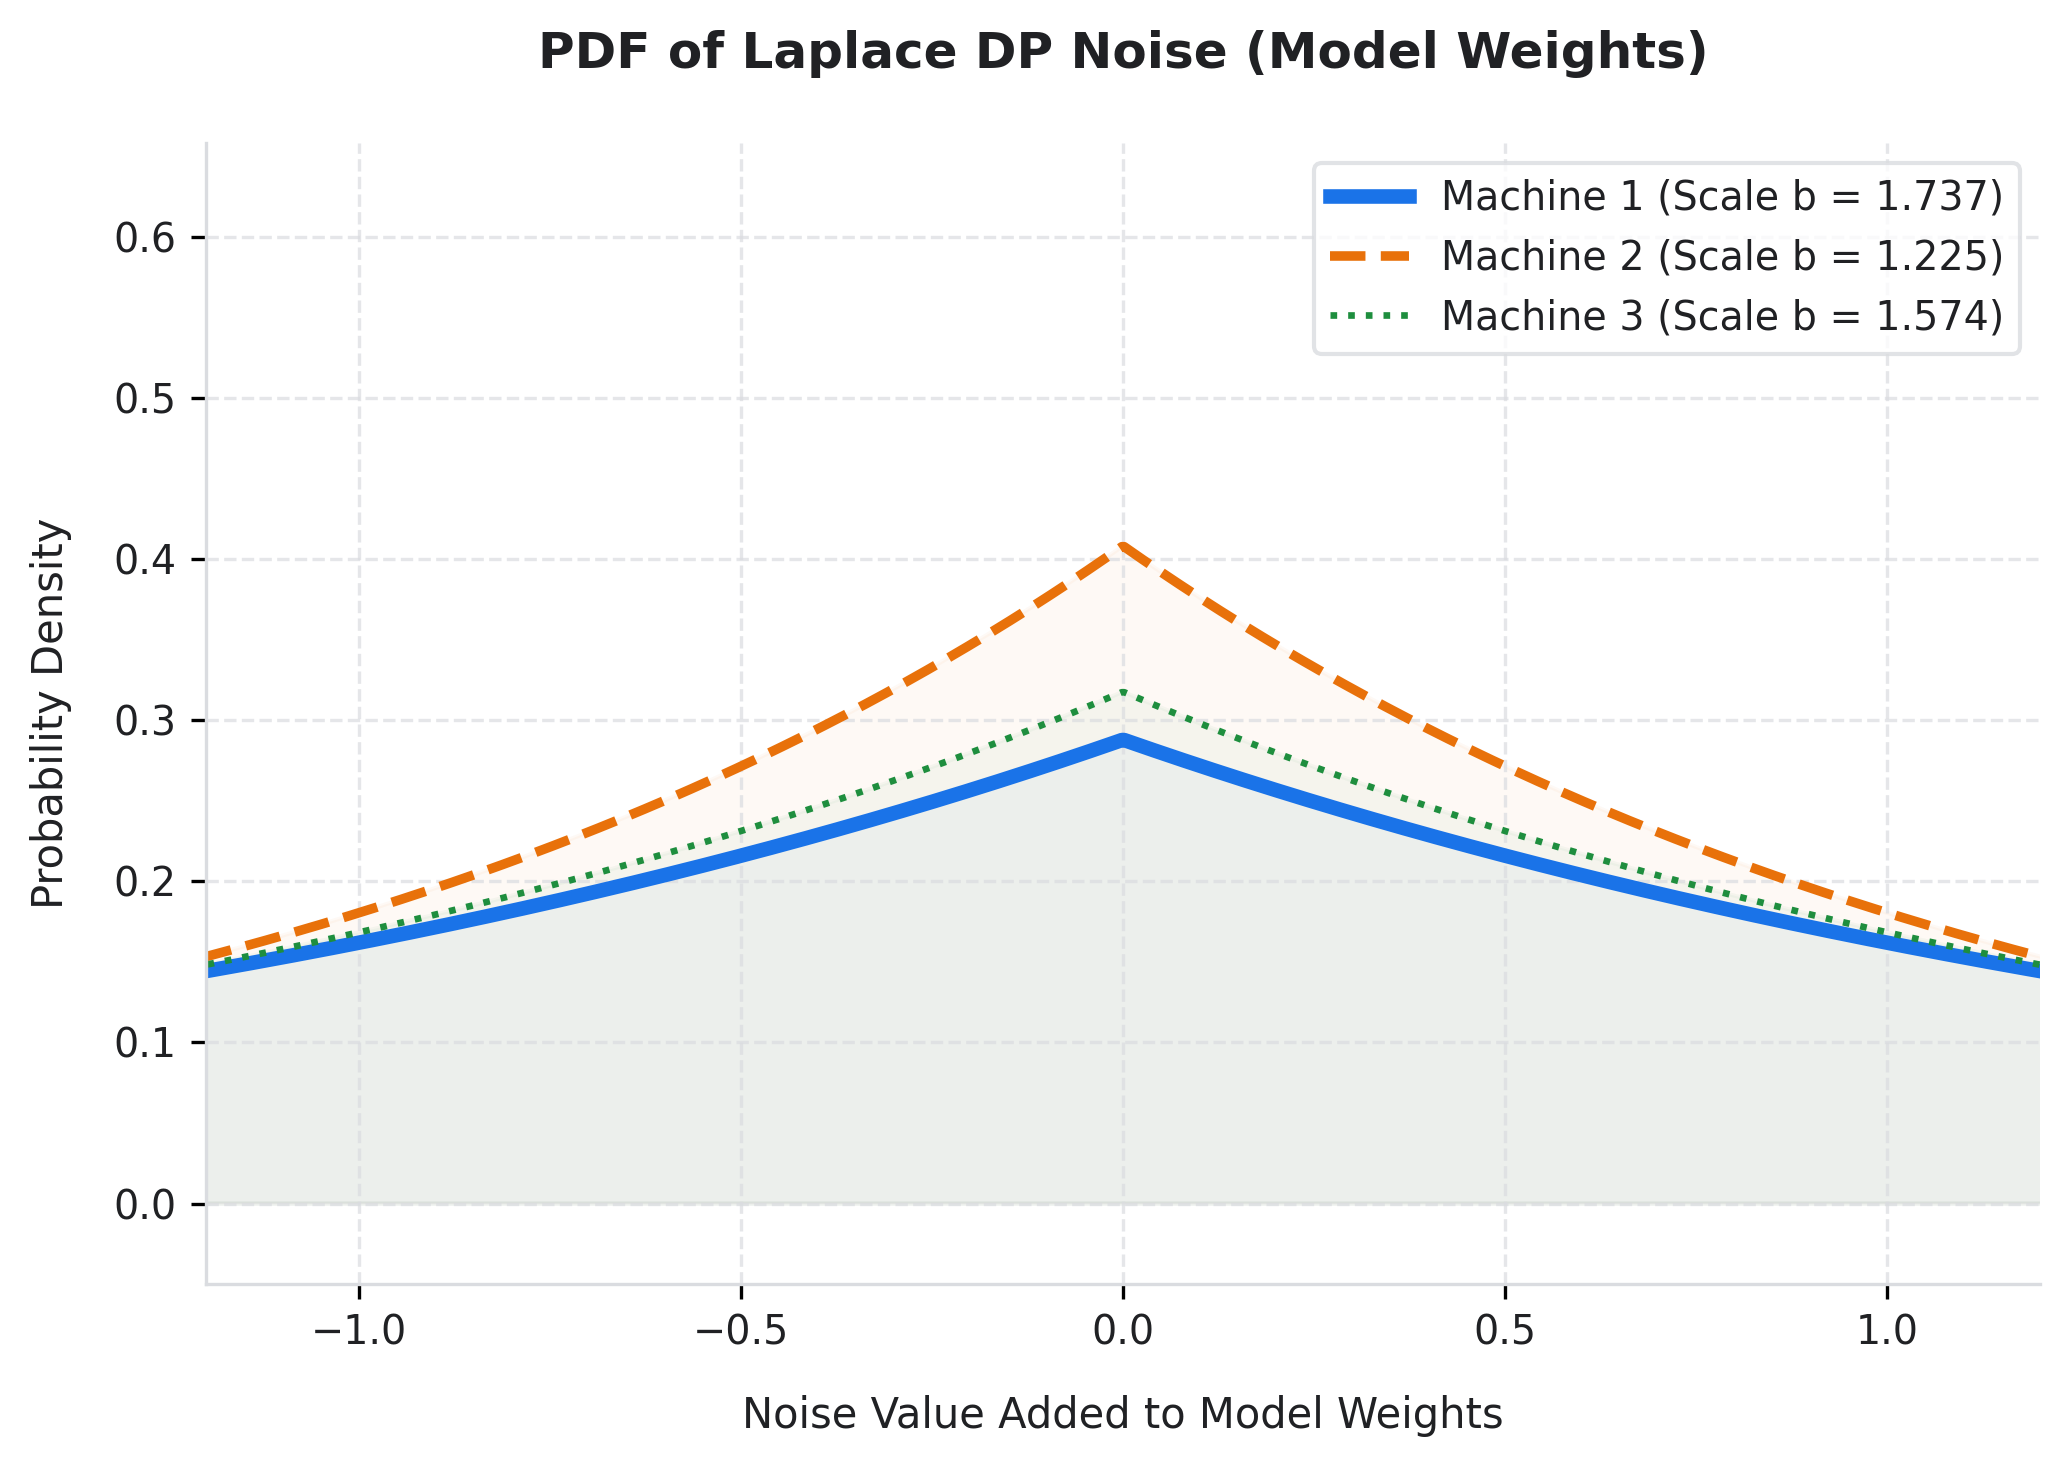
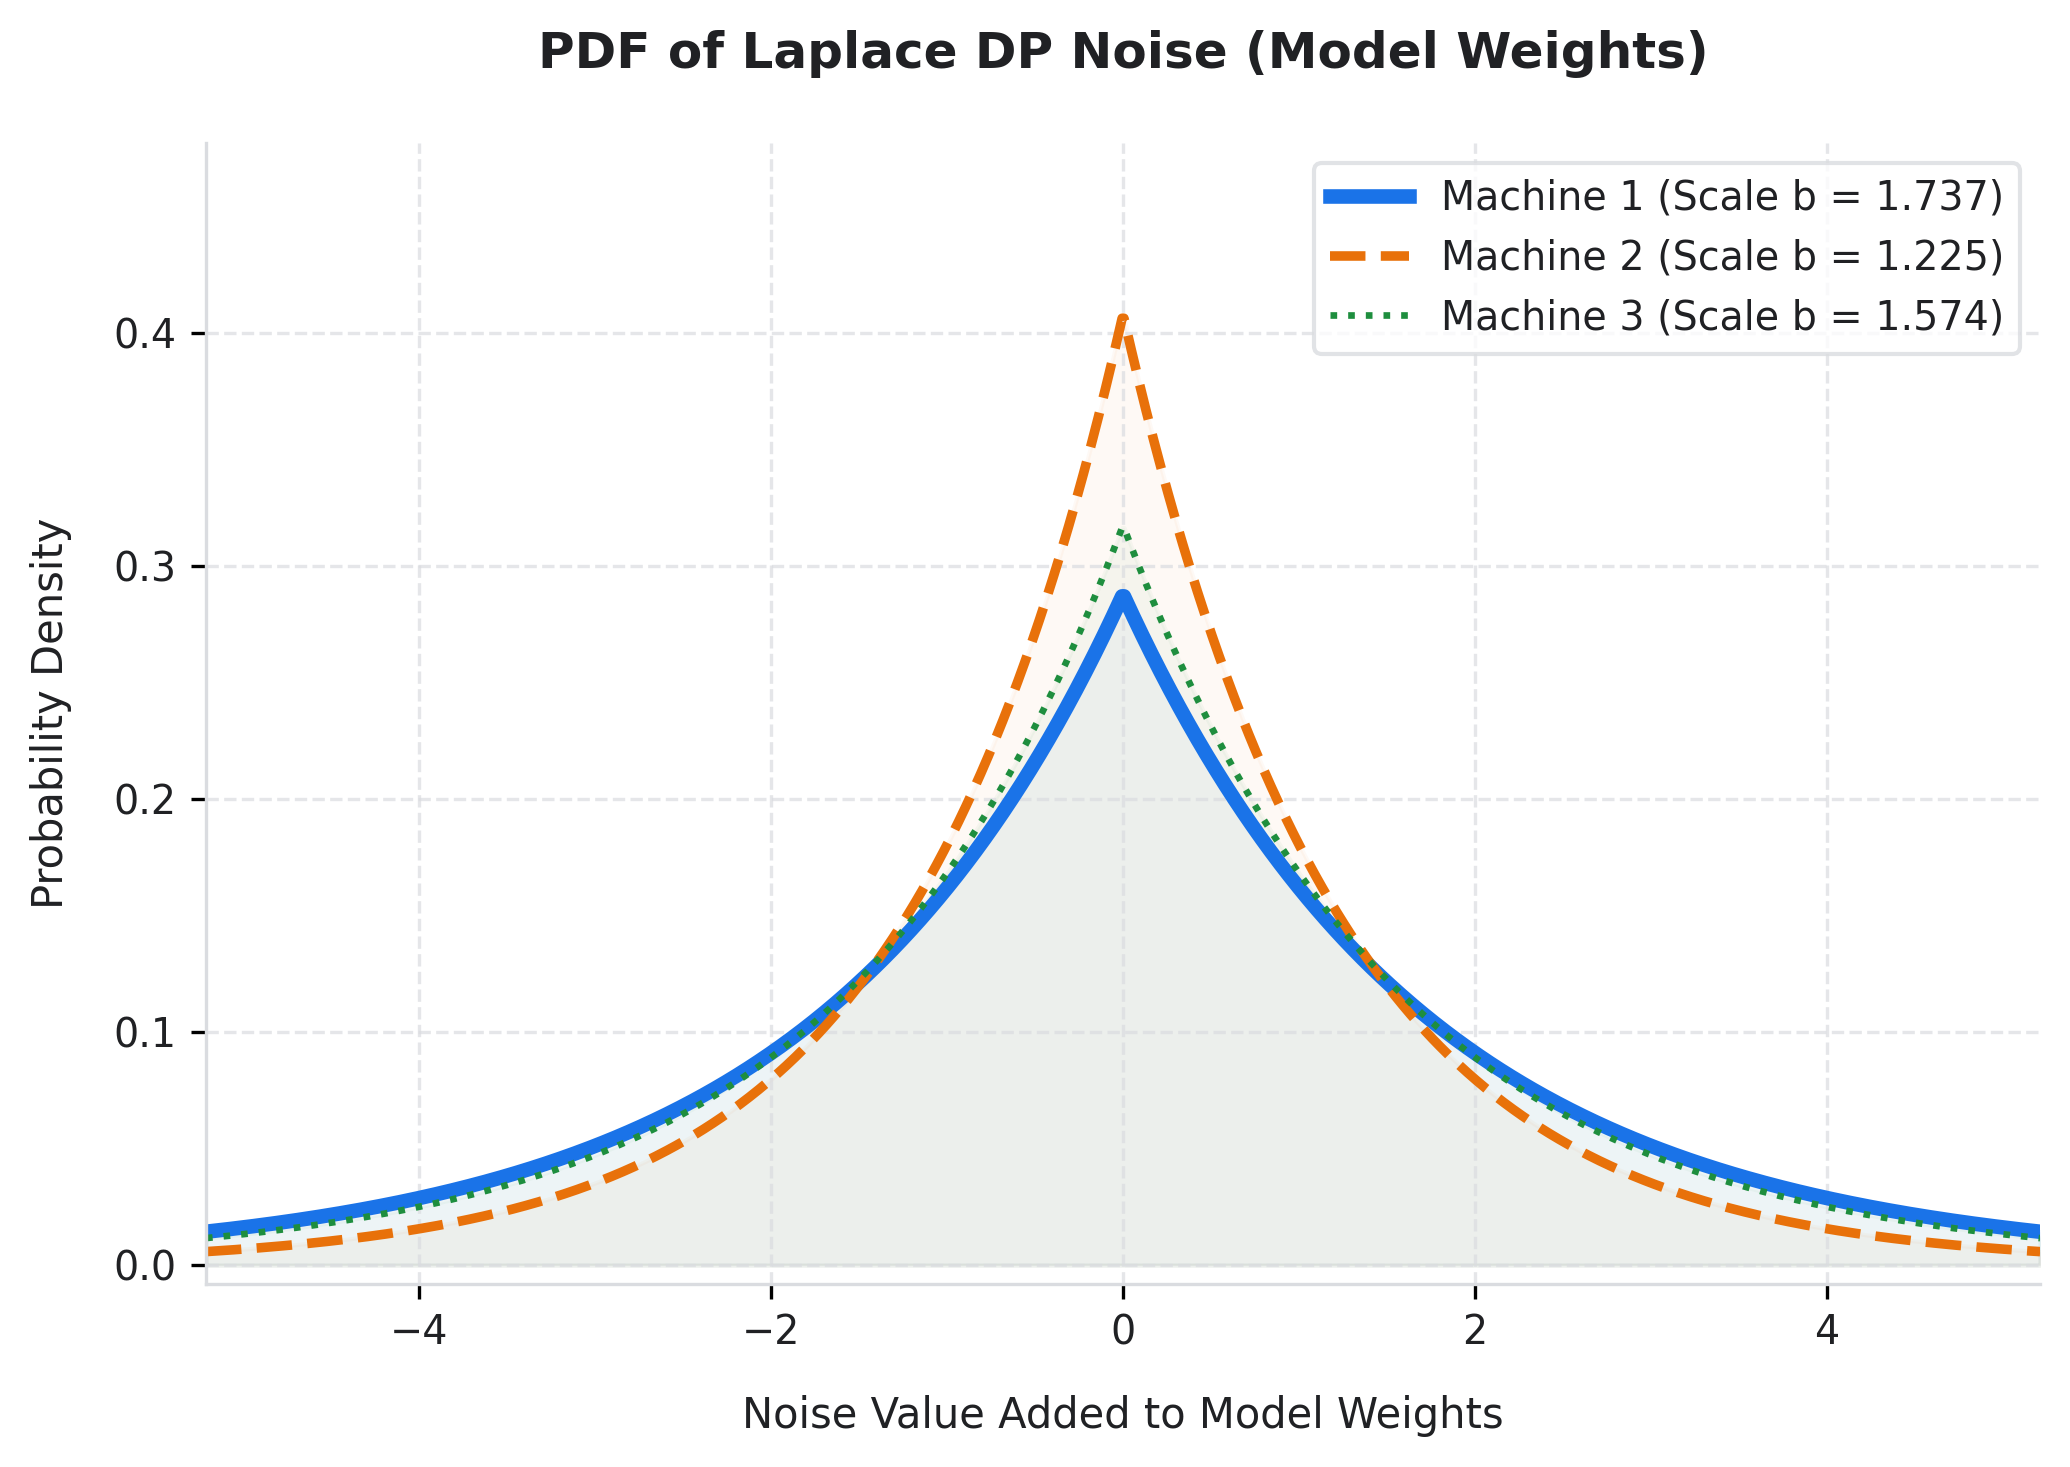
Dynamically scale axes in plot_dp_laplace.png for clear, un-cropped Laplace Noise PDF rendering

diff --git a/server.py b/server.py
@@ -395,7 +395,9 @@ if use_dp:
             # Use epsilon_per_round to plot the actual per-round noise scale
             scale = sensitivity / epsilon_per_round
             scales.append(scale)
-        x_range = np.linspace(-1.5, 1.5, 1000)
+        max_scale = max(scales)
+        x_limit = max(3.0 * max_scale, 0.5)
+        x_range = np.linspace(-x_limit, x_limit, 1000)
 
         colors = ['#1a73e8', '#e8710a', '#1e8e3e'] # Blue, Orange, Green
         line_styles = ['-', '--', ':']             # Solid, Dashed, Dotted
@@ -410,10 +412,11 @@ if use_dp:
                     label=f"{names[idx]} (Scale b = {scale:.3f})")
             ax.fill_between(x_range, pdf, alpha=0.04, color=colors[idx])
 
+        max_peak = max([laplace_dist.pdf(0, loc=0, scale=s) for s in scales])
         ax.set_title("PDF of Laplace DP Noise (Model Weights)", fontsize=12, fontweight='bold', color=TEXT_COLOR, pad=18)
         ax.set_xlabel("Noise Value Added to Model Weights", fontsize=10, color=TEXT_COLOR, labelpad=10)
-        ax.set_xlim(-1.2, 1.2)
-        ax.set_ylim(-0.05, max([laplace_dist.pdf(0, loc=0, scale=s) for s in scales]) + 0.25)
+        ax.set_xlim(-x_limit, x_limit)
+        ax.set_ylim(-0.02 * max_peak, max_peak * 1.18)
     else:
         # Input perturbation: plot noise added to features based on sensitivity
         # Standardized range is [-3, 3], Delta = 6.0
